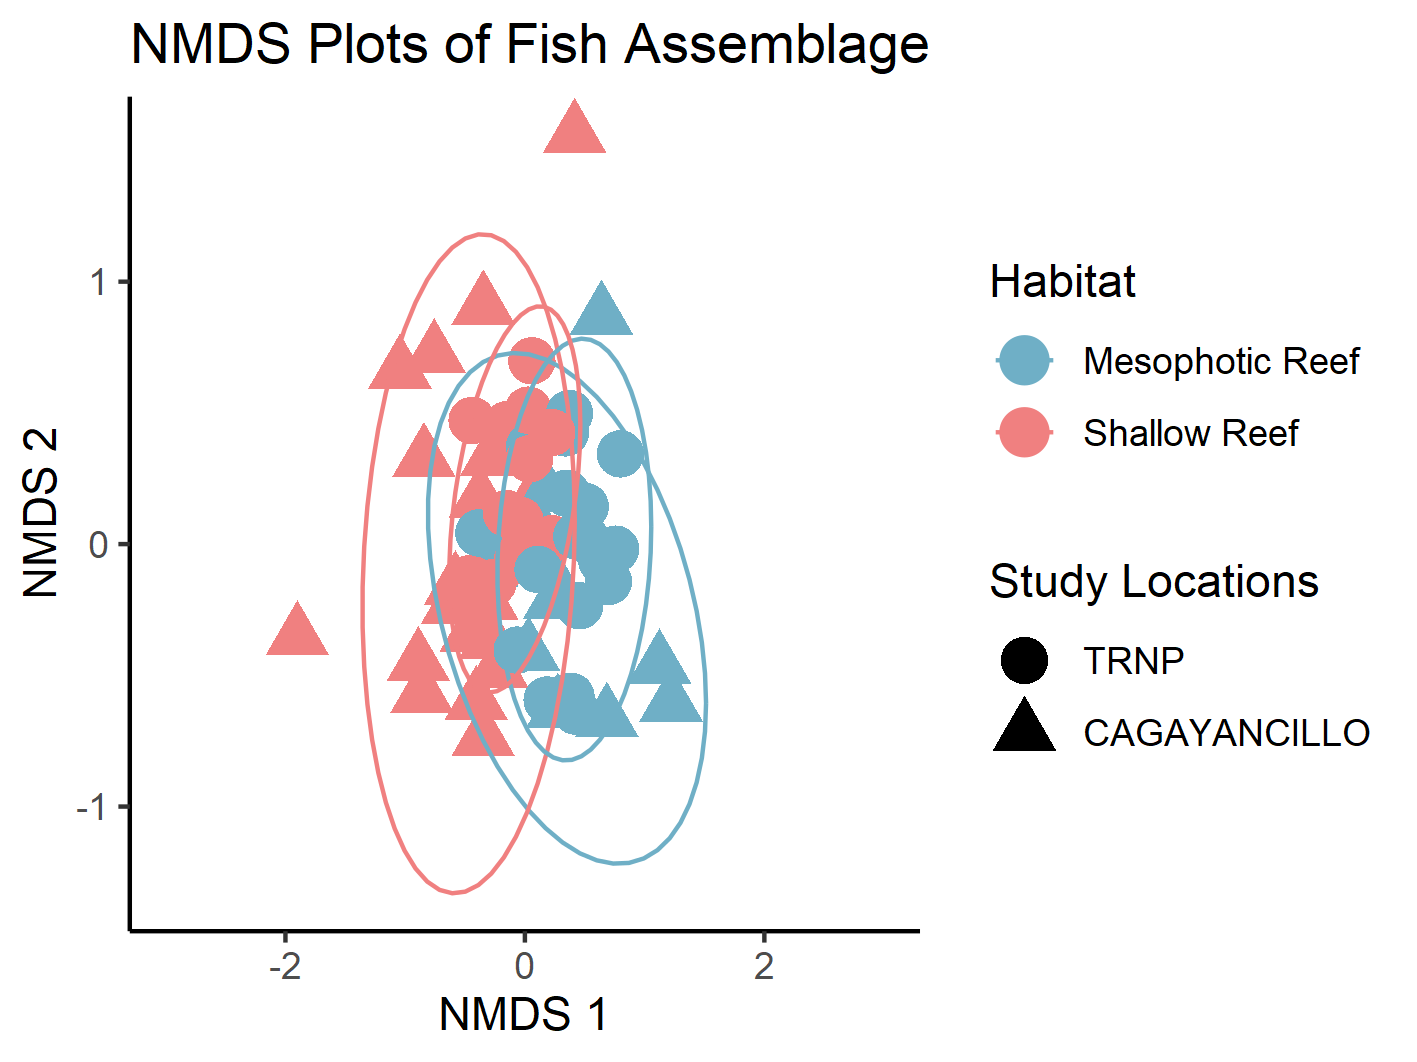
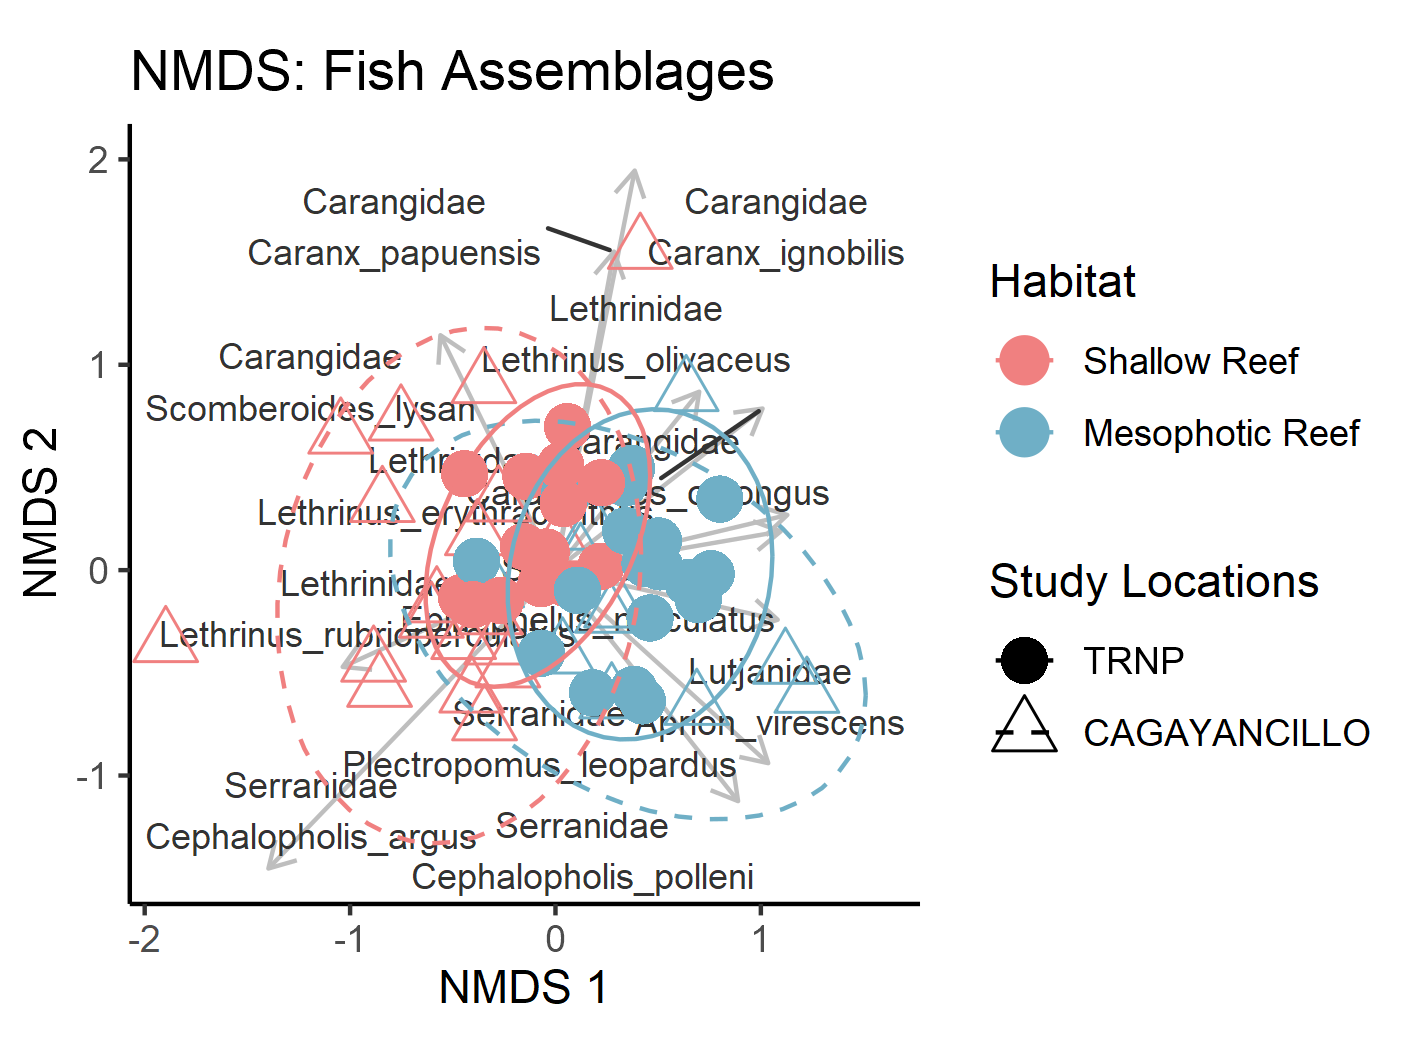
updating nmds

diff --git a/log_ceb_2022-09-14.md b/log_ceb_2022-09-14.md
@@ -5,6 +5,7 @@
 Working in `data_wrangling_vis_salvador_ordination_rarefaction.R`
 
 Notes:
+* There are some differences between `data` and `data_removed_sp` to pay attention to...
 * All `data_vegan*` tibbles are made from data where taxa not identified to species were removed
 
 Changes:
@@ -21,6 +22,8 @@ Changes:
 	* Tub: solid lines, filled circles
 	* Ellipses represent the 95% confidence interval based on a multivariate t distribution
 		* Update methods to reflect this
+* I added vectors of species loading values to the nmds
+
 
 ## Review hypothesis testing with fixed/mixed models
 
